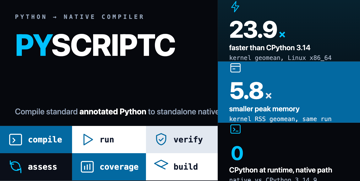
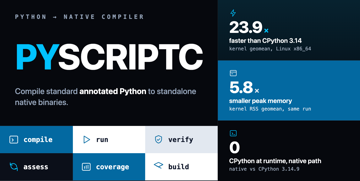
fix(site): resolve OG preview clipping and rebalance brand tile
- wrap tagline to two lines (max-width 900px) so it ends inside the brand tile
- give right-column stat tiles 40px padding, minmax rows, vertically centered
  content; shrink icons/figures so nothing clips at any edge
- rebalance brand tile: move tagline up under a larger wordmark
- shrink cmd glyphs/names to fit within 40px tile padding

diff --git a/apps/web/og/og-preview.html b/apps/web/og/og-preview.html
@@ -32,19 +32,19 @@
         grid-template-rows: 618px 1fr;
       }
       .tile { border-right: 1px solid var(--border-strong); border-bottom: 1px solid var(--border-strong); }
-      #tile-brand { grid-column: 1; grid-row: 1; background: var(--bg-base); padding: 64px 72px 0; display: flex; flex-direction: column; }
-      .kicker { font-size: 29px; letter-spacing: 0.32em; color: var(--text-secondary); font-weight: 600; margin-bottom: 30px; }
-      .wordmark { font-size: 150px; font-weight: 800; letter-spacing: -0.02em; color: var(--text-primary); }
+      #tile-brand { grid-column: 1; grid-row: 1; background: var(--bg-base); padding: 64px 72px; display: flex; flex-direction: column; }
+      .kicker { font-size: 29px; letter-spacing: 0.32em; color: var(--text-secondary); font-weight: 600; }
+      .brand-stack { margin-top: 84px; }
+      .wordmark { font-size: 176px; font-weight: 800; letter-spacing: -0.02em; line-height: 1.05; color: var(--text-primary); }
       .wordmark .py { color: var(--accent-cyan); }
-      .brand-flex { flex: 1; display: flex; flex-direction: column; justify-content: flex-end; padding-bottom: 44px; }
-      .descriptor { font-size: 40px; font-weight: 500; color: var(--text-secondary); line-height: 1.35; white-space: nowrap; }
+      .descriptor { margin-top: 52px; font-size: 40px; font-weight: 500; color: var(--text-secondary); line-height: 1.35; max-width: 900px; }
       .descriptor strong { color: var(--text-primary); font-weight: 700; }
       #tile-cli { grid-column: 1; grid-row: 2; background: var(--bg-surface); display: grid; grid-template-columns: repeat(3, 1fr); grid-template-rows: repeat(2, 1fr); }
-      #tile-cli > div { border-right: 1px solid var(--border); border-bottom: 1px solid var(--border); display: flex; align-items: center; gap: 22px; padding: 0 36px; }
+      #tile-cli > div { border-right: 1px solid var(--border); border-bottom: 1px solid var(--border); display: flex; align-items: center; gap: 22px; padding: 0 40px; }
       #tile-cli > div:nth-child(3n) { border-right: none; }
       #tile-cli > div:nth-child(n+4) { border-bottom: none; }
-      .cmd .glyph { width: 78px; height: 78px; flex: 0 0 auto; color: var(--accent-cyan); }
-      .cmd .name { font-size: 40px; font-weight: 700; color: var(--text-primary); }
+      .cmd .glyph { width: 52px; height: 52px; flex: 0 0 auto; color: var(--accent-cyan); }
+      .cmd .name { font-size: 34px; font-weight: 700; color: var(--text-primary); }
       /* the bento alternates four treatments: solid brand, white, light tint, dark navy */
       .cmd-solid { background: var(--accent-azure-dark); }
       .cmd-solid .name { color: #ffffff; }
@@ -55,14 +55,14 @@
       .cmd-tint { background: #e2e8f0; }
       .cmd-tint .name { color: #0f172a; }
       .cmd-tint .glyph { color: var(--accent-azure-dark); }
-      #col-right { grid-column: 2; grid-row: 1 / span 2; display: grid; grid-template-rows: repeat(3, 1fr); }
-      #col-right > div { border-bottom: 1px solid var(--border-strong); padding: 0 56px; display: flex; flex-direction: column; justify-content: center; gap: 12px; }
+      #col-right { grid-column: 2; grid-row: 1 / span 2; display: grid; grid-template-rows: repeat(3, minmax(0, 1fr)); }
+      #col-right > div { border-bottom: 1px solid var(--border-strong); padding: 40px 56px; display: flex; flex-direction: column; justify-content: center; gap: 8px; }
       #col-right > div:last-child { border-bottom: none; }
-      .win .icon { width: 62px; height: 62px; margin-bottom: 8px; }
-      .win .figure { font-size: 116px; font-weight: 800; letter-spacing: -0.03em; line-height: 1; color: var(--text-primary); }
-      .win .figure .unit { font-size: 54px; font-weight: 700; color: var(--accent-cyan); margin-left: 8px; }
-      .win .caption { font-size: 36px; font-weight: 600; color: var(--text-primary); }
-      .win .subject { font-size: 30px; color: #a9b6c8; }
+      .win .icon { width: 40px; height: 40px; }
+      .win .figure { font-size: 80px; font-weight: 800; letter-spacing: -0.03em; line-height: 1; color: var(--text-primary); }
+      .win .figure .unit { font-size: 38px; font-weight: 700; color: var(--accent-cyan); margin-left: 8px; }
+      .win .caption { font-size: 32px; font-weight: 600; color: var(--text-primary); }
+      .win .subject { font-size: 24px; color: #a9b6c8; }
       .win-cyan { background: linear-gradient(180deg, #07222f 0%, #061620 100%); }
       .win-navy { background: var(--bg-card); }
       .win-azure { background: var(--accent-azure-dark); }
@@ -75,8 +75,8 @@
     <div id="board">
       <div id="tile-brand" class="tile">
         <div class="kicker mono">PYTHON &rarr; NATIVE COMPILER</div>
-        <div class="wordmark"><span class="py">PY</span>SCRIPTC</div>
-        <div class="brand-flex">
+        <div class="brand-stack">
+          <div class="wordmark"><span class="py">PY</span>SCRIPTC</div>
           <div class="descriptor">
             Compile standard <strong>annotated Python</strong> to standalone native binaries.
           </div>
@@ -123,7 +123,7 @@
         </div>
         <div class="win">
           <svg class="icon" viewBox="0 0 24 24" fill="none" stroke="#00c2ff" stroke-width="1.5" stroke-linecap="round" stroke-linejoin="round"><rect x="3" y="4" width="18" height="16" rx="2"/><path d="m8 10 3 3-3 3M13 16h4"/></svg>
-          <div class="figure"><span class="unit" style="font-size:96px;">0</span></div>
+          <div class="figure">0</div>
           <div class="caption">CPython at runtime, native path</div>
           <div class="subject mono">native vs CPython 3.14.9</div>
         </div>
